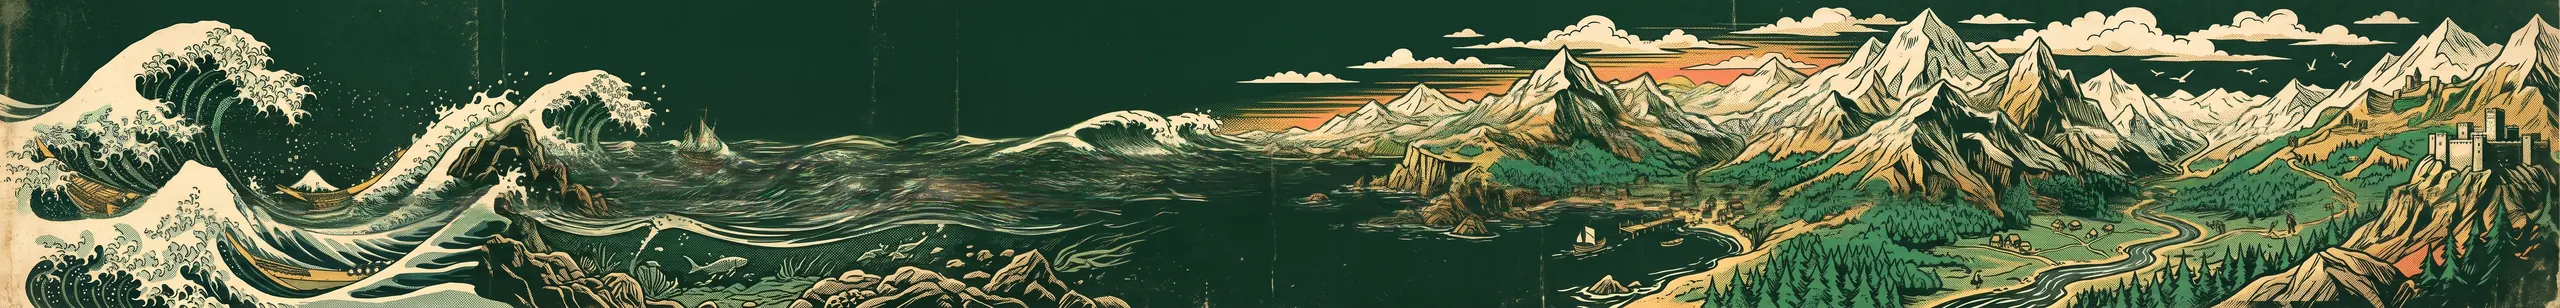
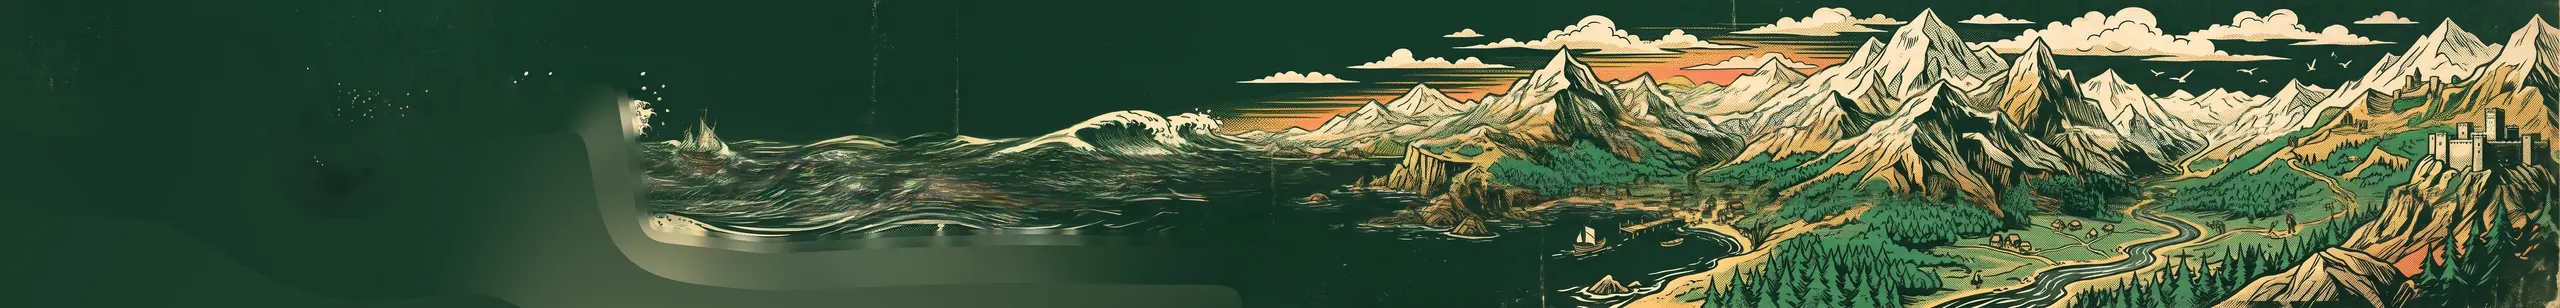
dividers: ship tide wipe with no depth parallax; hollow the plate under the sea
Chosen on the preview: tide wipe, parallax cap 0. Defaults updated; the
?tune panel stays for revisiting, but its saved choices now only apply while
?tune is in the URL, so a stale panel setting can never change what a visitor
sees (verified by planting one).

The ±3px water bob moved an opaque sea layer over a far plate that still held
its own copy of the waves, which put a faint second outline on the foam crests
and rock edges at the top of each bob — the same double-exposure fuzz as
before. The far plate is now hollowed under the sea layer and filled from its
immediate surroundings (sky above the crests, water tone along the underwater
edge), so the bob can only ever reveal what is genuinely behind it. Side
effect: the far plate is ~35% lighter (phone rung 81KB → 54KB).

Changed region(s): [[0.0, 0.0, 0.4688, 1.0]]

diff --git a/src/ornaments/dividerTuning.js b/src/ornaments/dividerTuning.js
@@ -1,17 +1,20 @@
 /**
  * Divider motion settings, shared by every divider and the ?tune panel.
  *
- * PREVIEW-ONLY: the panel exists so the scroll-linked treatments can be
- * compared on a live URL. Settings come from the URL first
- * (?divider=dissolve|tide|static&cap=6&floor=0.15), then localStorage.
+ * Production: tide wipe, no depth parallax (chosen 2026-09-13 on the preview).
+ * The ?tune panel stays available for revisiting; its saved choices only
+ * apply while ?tune is in the URL, so they can never change what visitors see.
+ * URL overrides: ?divider=dissolve|tide|static&cap=6&floor=0.15
  */
-const DEFAULTS = { mode: "dissolve", cap: 30, floor: 0.15 };
+const DEFAULTS = { mode: "tide", cap: 0, floor: 0.15 };
 const KEY = "aae-divider-tune";
 
 function read() {
-  let saved = {};
-  try { saved = JSON.parse(localStorage.getItem(KEY) || "{}"); } catch {}
   const q = typeof location !== "undefined" ? new URLSearchParams(location.search) : new URLSearchParams();
+  let saved = {};
+  if (q.has("tune")) {
+    try { saved = JSON.parse(localStorage.getItem(KEY) || "{}"); } catch {}
+  }
   const out = { ...DEFAULTS, ...saved };
   if (q.has("divider")) out.mode = q.get("divider");
   if (q.has("cap")) out.cap = Math.max(0, Math.min(30, Number(q.get("cap")) || 0));
